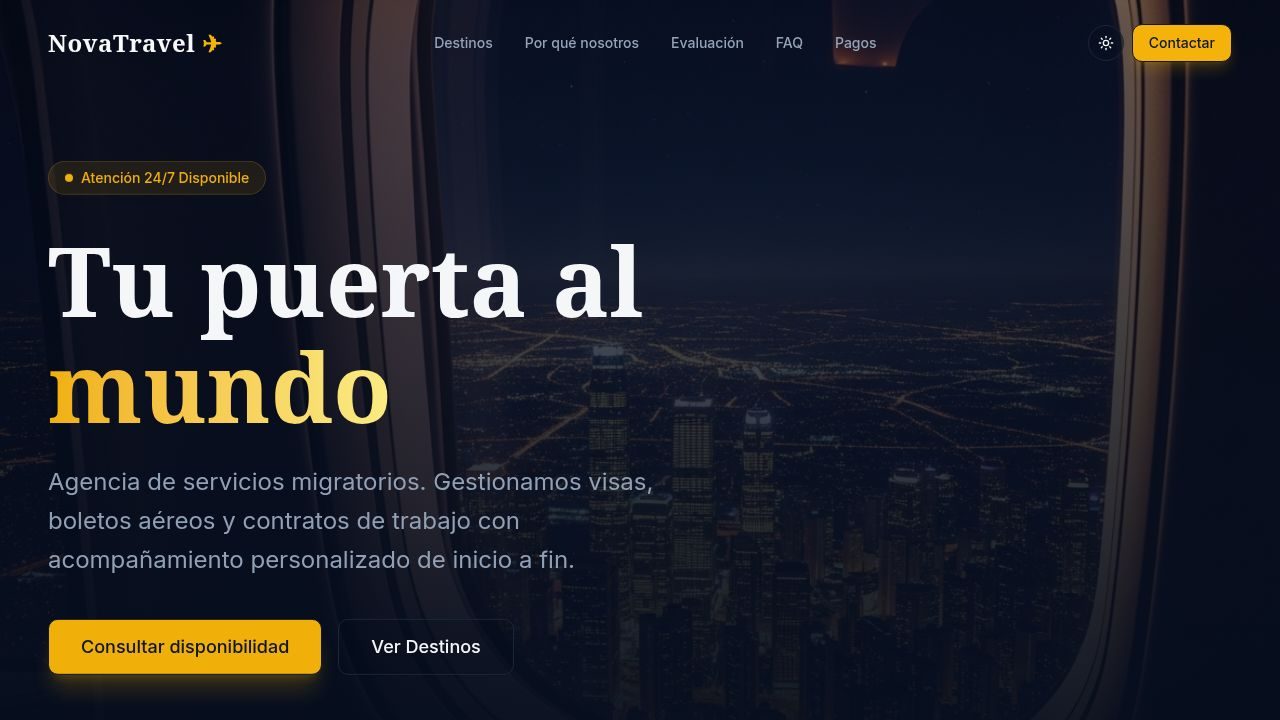
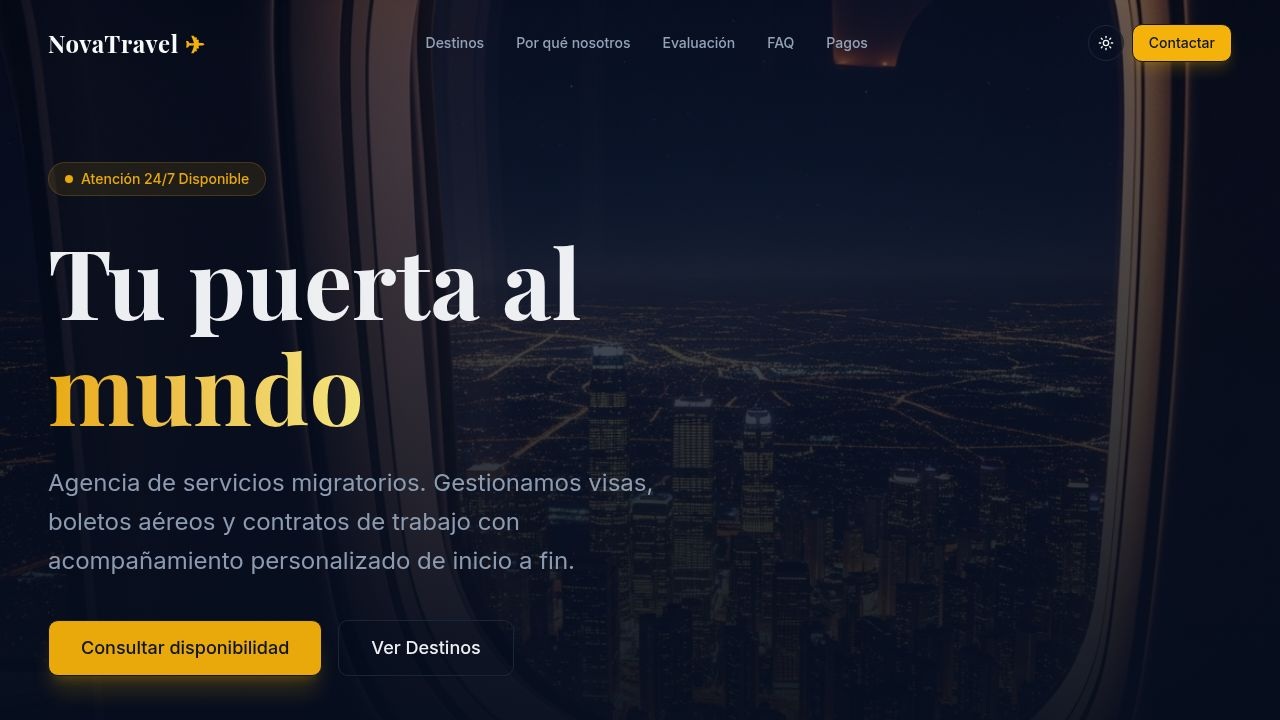
Actualizar web NovaTravel

diff --git a/src/App.tsx b/src/App.tsx
@@ -547,6 +547,43 @@ function FloatingWhatsApp({ onContact }: { onContact: () => void }) {
   );
 }
 
+function FloatingTelegram() {
+  const [tooltip, setTooltip] = useState(false);
+
+  return (
+    <motion.div
+      initial={{ scale: 0, opacity: 0 }}
+      animate={{ scale: 1, opacity: 1 }}
+      transition={{ delay: 1.3, type: "spring" }}
+      className="fixed bottom-24 right-6 z-50 flex items-center gap-2"
+    >
+      {tooltip && (
+        <motion.div
+          initial={{ opacity: 0, x: 10 }}
+          animate={{ opacity: 1, x: 0 }}
+          className="bg-background border border-border text-foreground text-sm font-medium px-3 py-1.5 rounded-lg shadow-lg whitespace-nowrap"
+        >
+          💬 Chatear con Nova IA
+        </motion.div>
+      )}
+      <a
+        href="https://t.me/Asistente_Novatravel_Bot"
+        target="_blank"
+        rel="noopener noreferrer"
+        aria-label="Chatear con el asistente de IA en Telegram"
+        onMouseEnter={() => setTooltip(true)}
+        onMouseLeave={() => setTooltip(false)}
+        className="relative bg-[#229ED9] hover:bg-[#1a8bbf] text-white p-4 rounded-full shadow-2xl transition-transform hover:scale-110 flex items-center justify-center"
+      >
+        <div className="absolute inset-0 rounded-full bg-[#229ED9] animate-ping opacity-25"></div>
+        <svg viewBox="0 0 24 24" className="w-7 h-7 relative z-10 fill-current" xmlns="http://www.w3.org/2000/svg">
+          <path d="M12 0C5.373 0 0 5.373 0 12s5.373 12 12 12 12-5.373 12-12S18.627 0 12 0zm5.894 8.221-1.97 9.28c-.145.658-.537.818-1.084.508l-3-2.21-1.447 1.394c-.16.16-.295.295-.605.295l.213-3.053 5.56-5.023c.242-.213-.054-.333-.373-.12L7.19 13.67l-2.96-.924c-.643-.204-.657-.643.136-.953l11.57-4.461c.537-.194 1.006.131.958.889z"/>
+        </svg>
+      </a>
+    </motion.div>
+  );
+}
+
 function Home() {
   const [quizOpen, setQuizOpen] = useState(false);
   const [destContext, setDestContext] = useState<string | null>(null);
@@ -571,6 +608,7 @@ function Home() {
       <Payments onContact={() => openQuiz()} />
       <Footer onContact={() => openQuiz()} />
       <FloatingWhatsApp onContact={() => openQuiz()} />
+      <FloatingTelegram />
 
       <QuizModal
         open={quizOpen}

diff --git a/index.html b/index.html
@@ -7,7 +7,7 @@
     <link rel="icon" type="image/svg+xml" href="/favicon.svg" />
     <link rel="preconnect" href="https://fonts.googleapis.com">
     <link rel="preconnect" href="https://fonts.gstatic.com" crossorigin>
-    <link href="https://fonts.googleapis.com/css2?family=Inter:wght@400;500;600;700&display=swap" rel="stylesheet">
+    <link href="https://fonts.googleapis.com/css2?family=Inter:wght@400;500;600;700&family=Playfair+Display:wght@400;700;900&display=swap" rel="stylesheet">
   </head>
   <body>
     <div id="root"></div>
